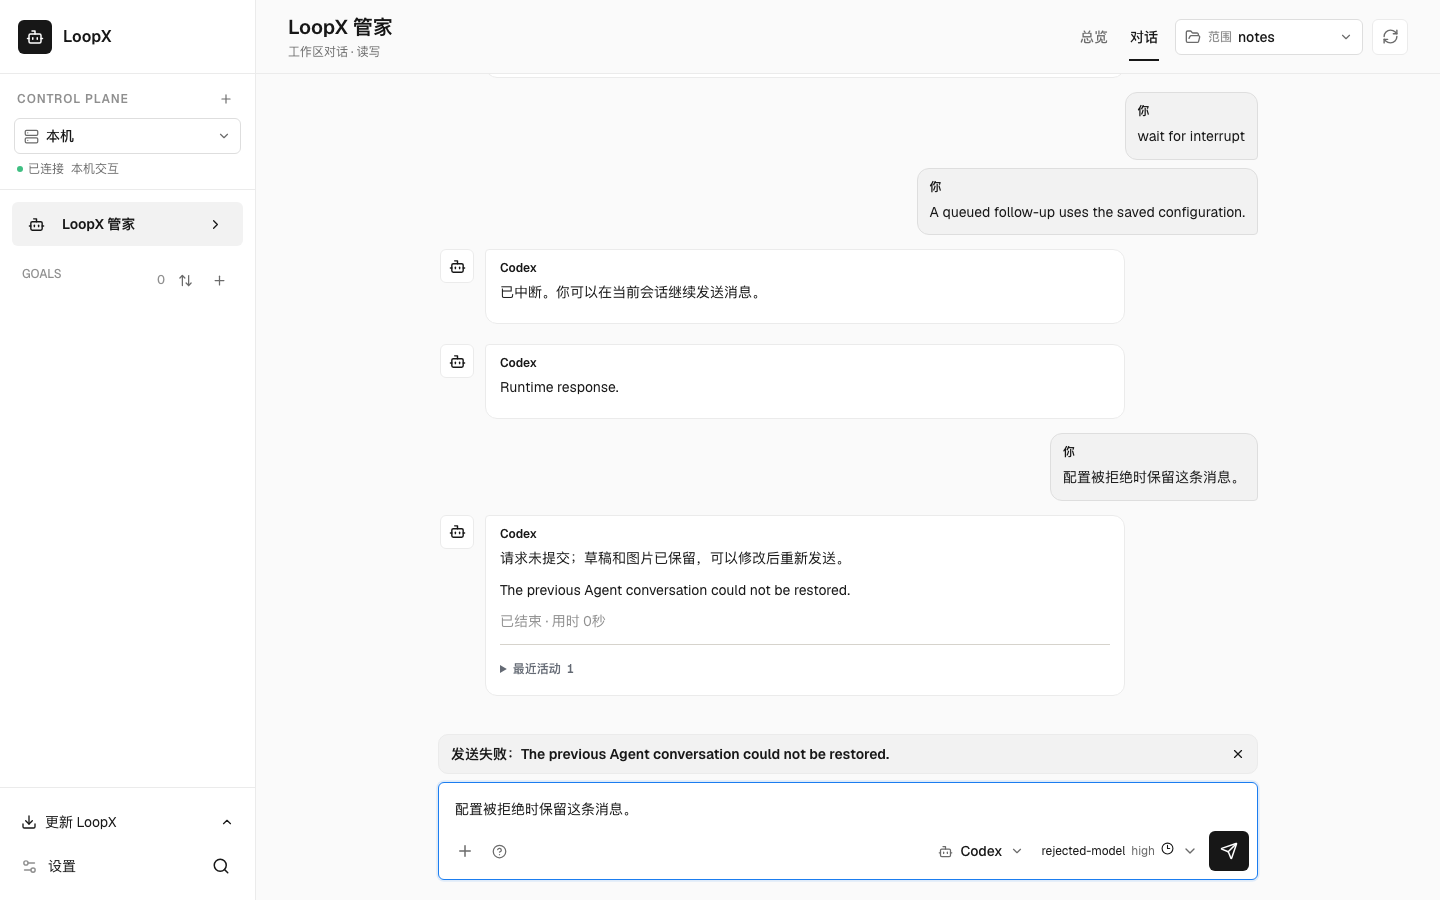
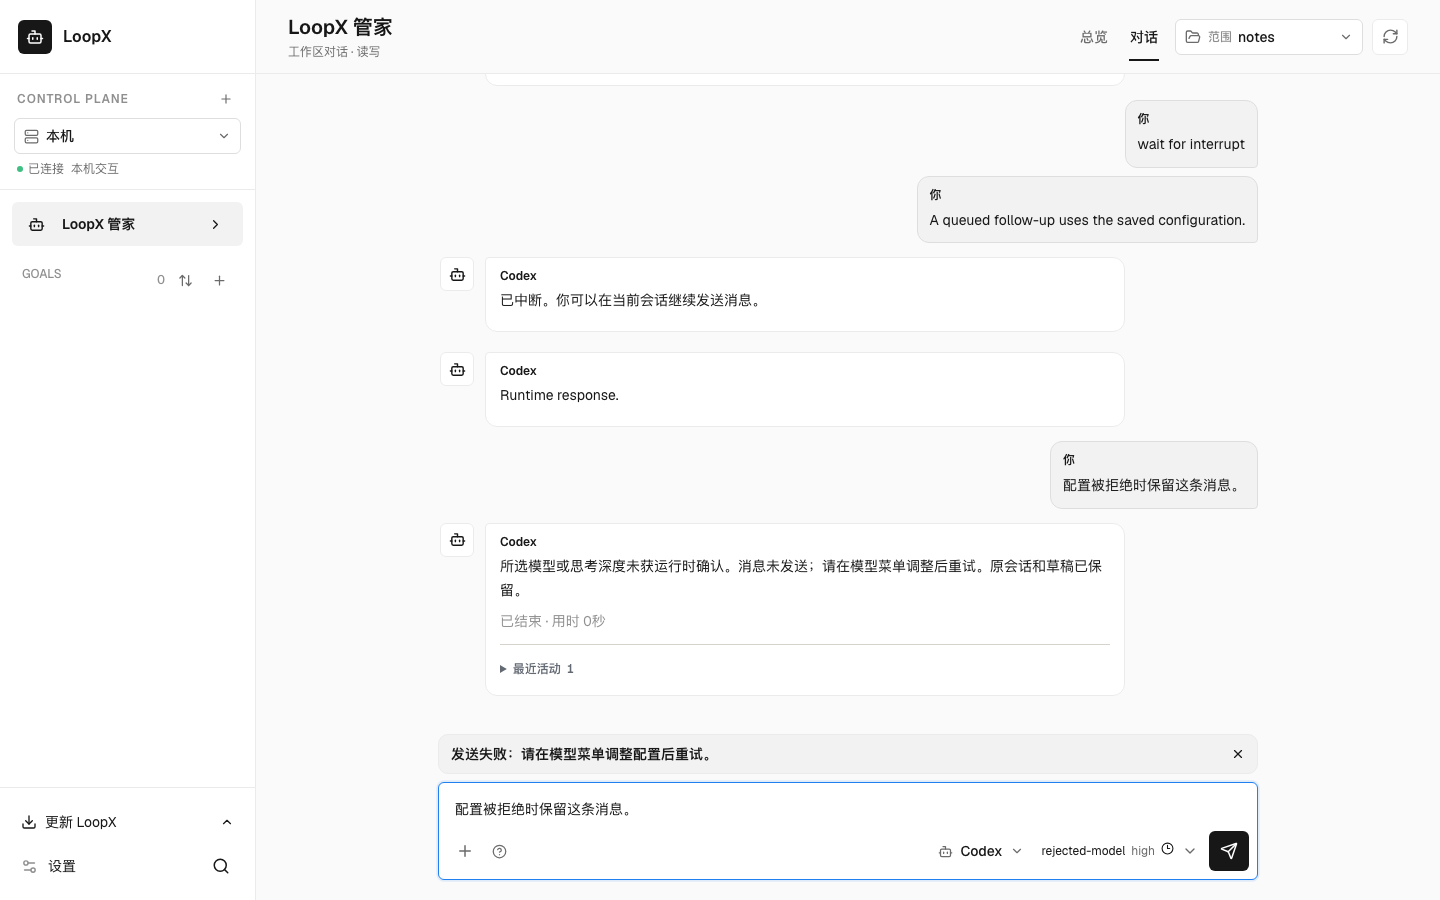
fix(chat): preserve configuration rejection through native recovery

diff --git a/loopx/chat_agent.py b/loopx/chat_agent.py
@@ -1032,15 +1032,17 @@ class CodexChatAgentSession:
                     "Codex did not apply the requested conversation provider."
                 )
             if model and thread_result.get("model") not in {None, model}:
-                raise session._runtime_error(
-                    "Codex did not apply the requested conversation model."
+                raise CodexChatAgentError(
+                    "Codex did not apply the requested conversation model.",
+                    error_code="unsupported_configuration", gate=None,
                 )
             if reasoning_effort and thread_result.get("reasoningEffort") not in {
                 None,
                 reasoning_effort,
             }:
-                raise session._runtime_error(
-                    "Codex did not apply the requested conversation reasoning effort."
+                raise CodexChatAgentError(
+                    "Codex did not apply the requested conversation reasoning effort.",
+                    error_code="unsupported_configuration", gate=None,
                 )
             session.model = thread_result.get("model") or model
             session.resolved_model = thread_result.get("model")
